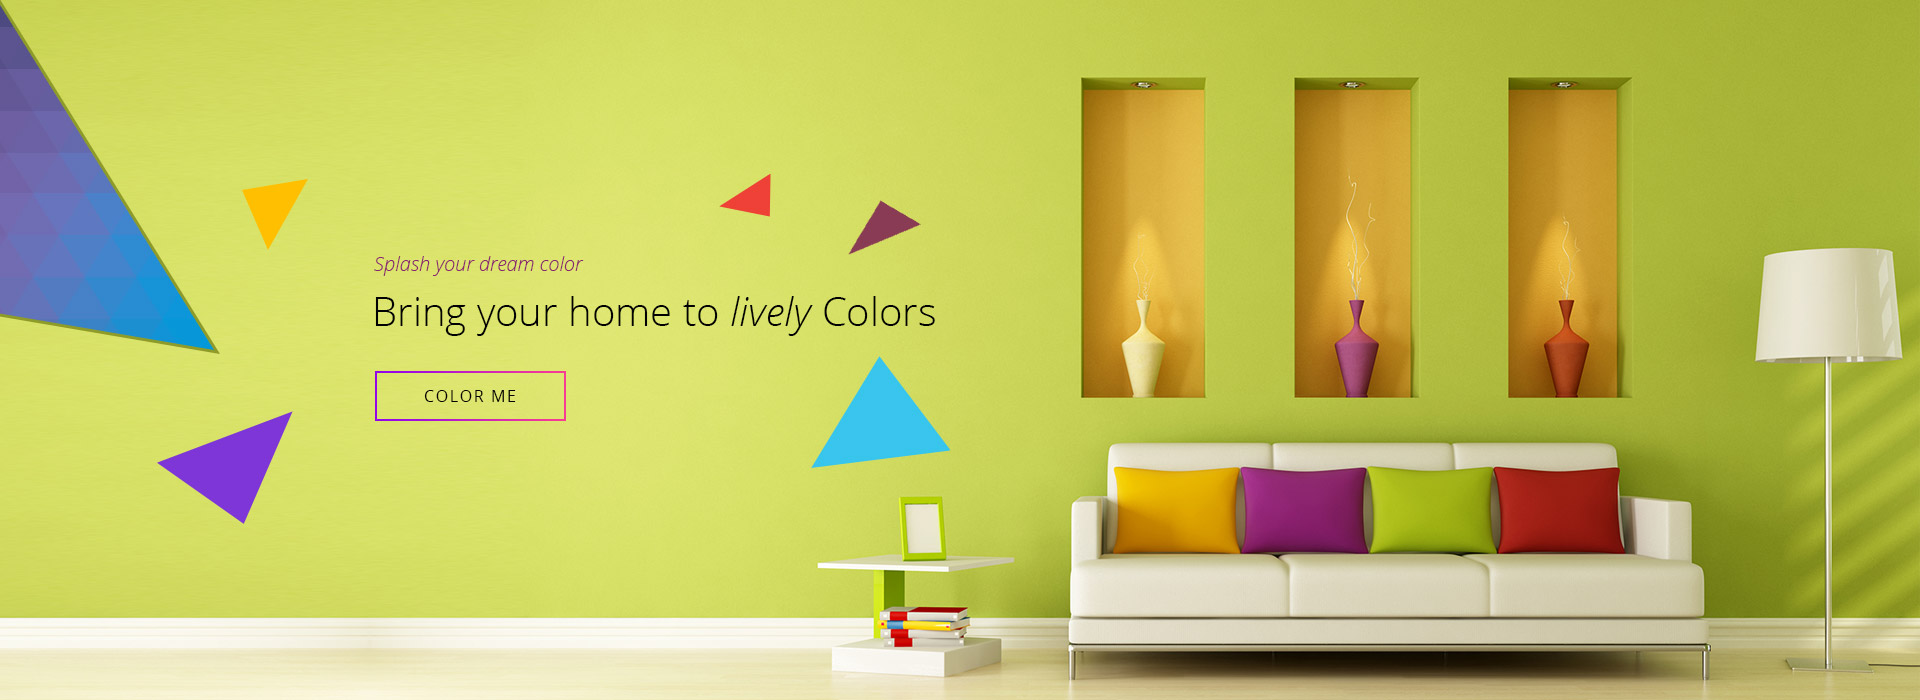
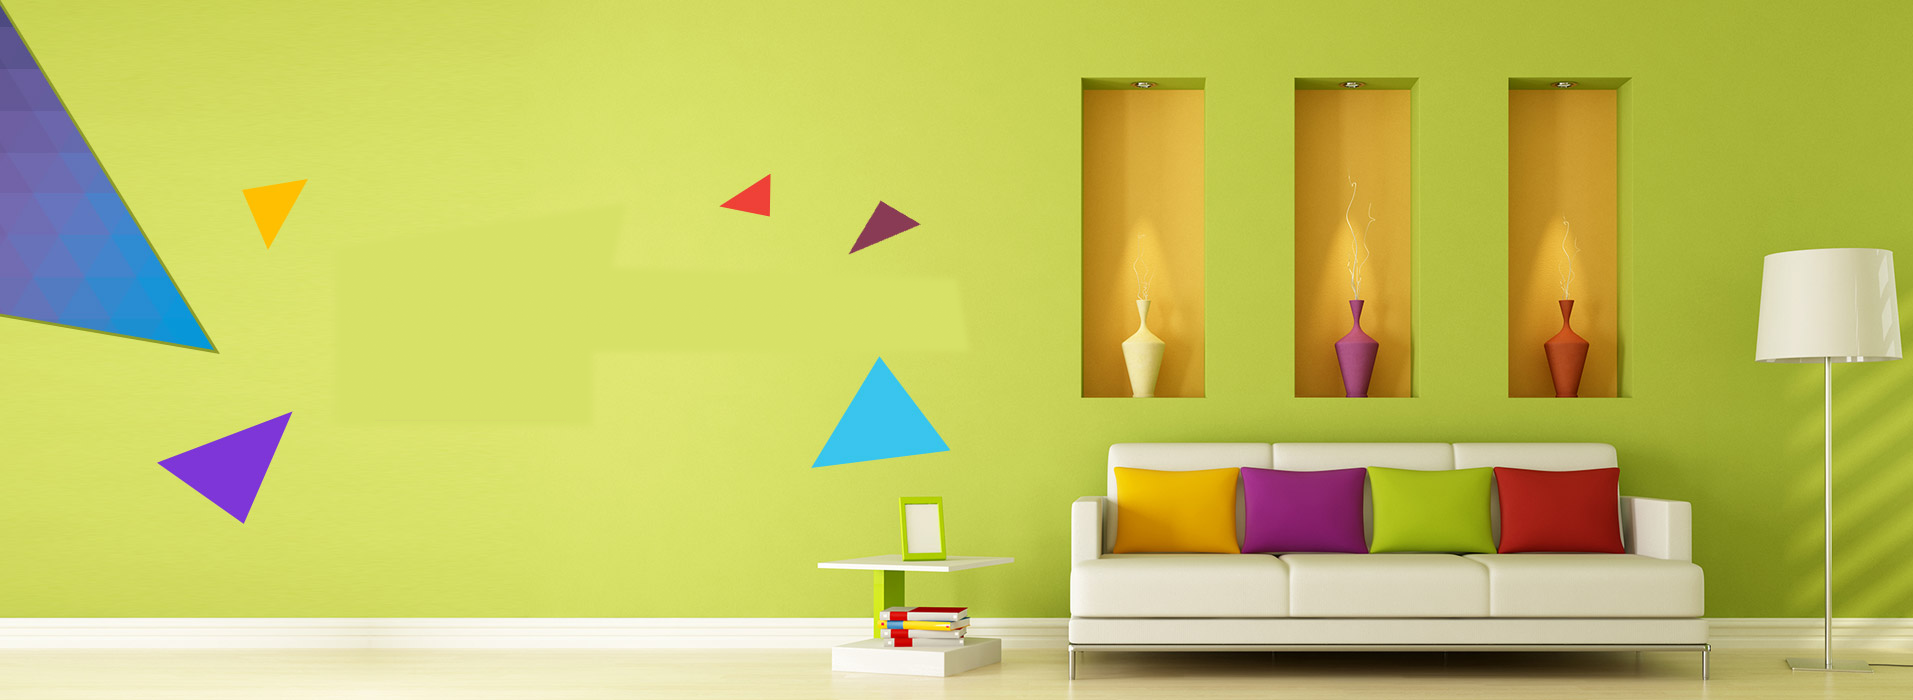
complete first section

diff --git a/index.html b/index.html
@@ -21,7 +21,7 @@
 
 <body>
     <header>
-        <nav class="w-100 position-fixed bg-color">
+        <nav class="w-100 position-fixed bg-color z-2">
             <div class="container">
                 <div class="d-flex justify-content-between align-items-center">
                     <div>
@@ -44,6 +44,19 @@
                 </div>
             </div>
         </nav>
+        <section class="bg-img min-vh-100 d-flex">
+            <div class="container flex-grow-1 d-flex align-items-center justify-content-start">
+                <div class="d-flex justify-content-center flex-column">
+                    <i class="poopins fw-4 lh-27 txt-color fs-18 ">Splash Your Dream Color</i>
+                    <p class="poopins fw-5 fs-36 lh-54 mt-4">Bring Your Home To Lively Colors</p>
+                    <div>
+                        <button class="mt-5 color-btn lh-30 fs-20 poopins">
+                            Colour Me
+                        </button>
+                    </div>
+                </div>
+            </div>
+        </section>
     </header>
 
     <main>

diff --git a/assets/css/style.css b/assets/css/style.css
@@ -49,12 +49,31 @@
     background-color: var(--primary-color);
 }
 
-.poopins {
-    font-family: var(--poopins);
+.color-btn {
+    position: relative;
+    display: inline-block;
+    color: transparent;
+    background-image: linear-gradient(90.44deg, #9003E5 2.42%, #F93B95 99.69%);
+    -webkit-background-clip: text;
+    background-clip: text;
+    border: 4px solid;
+    background-image: linear-gradient(90.44deg, #9003E5 2.42%, #F93B95 99.69%);
+    border-image-slice: 1;
+    cursor: pointer;
+    overflow: hidden;
+}
+
+.color-btn {
+    border-image: var(--liner-gradient);
+    border-image-slice: 1;
 }
 
 .nav-color {
     color: var(--nav-color);
+}
+
+.txt-color {
+    color: var(--txt-color);
 }
 
 .lh-54 {
@@ -141,6 +160,16 @@
 .nav-links:hover {
     -webkit-text-stroke: 1px;
 }
+
+.bg-img {
+    background-image: url(../images/png/main-section-img.png);
+    background-repeat: no-repeat;
+    background-position: center;
+    background-size: cover;
+    /* position: relative; */
+}
+
+
 
 
 
